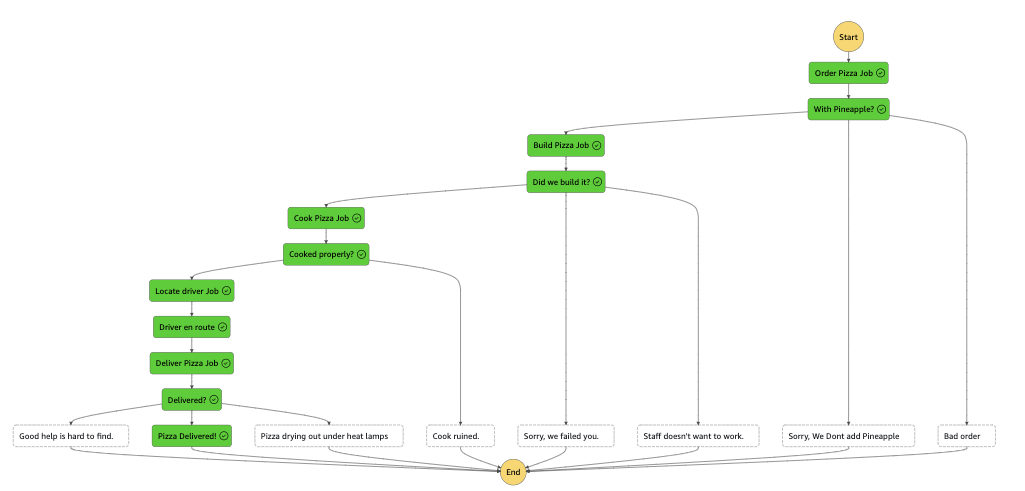
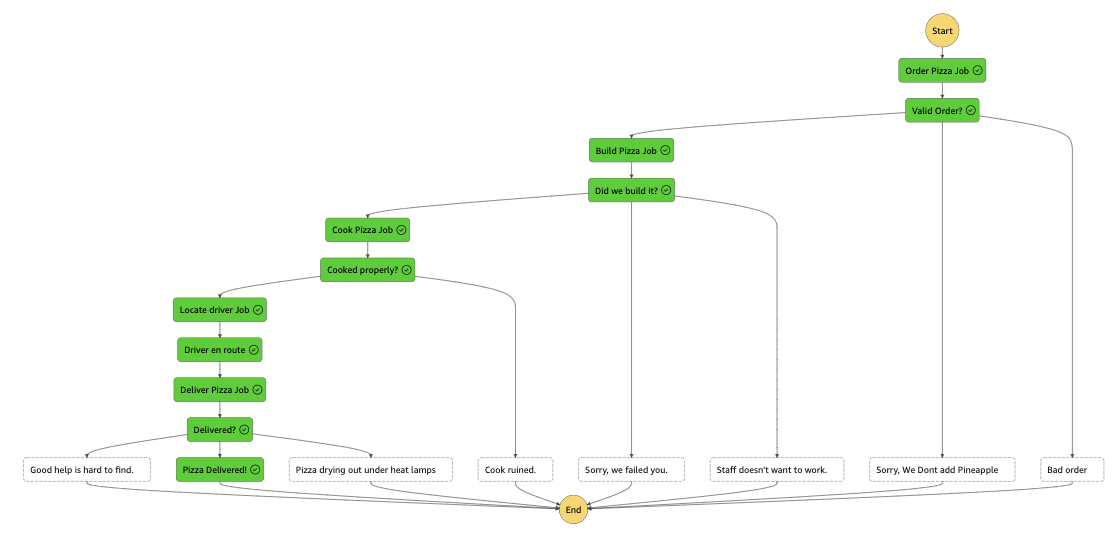
A little more docs

Changed region(s): [[0.0, 0.2749, 0.999, 1.0], [0.4371, 0.0305, 0.9366, 0.3971]]

diff --git a/lib/the-state-machine-stack.ts b/lib/the-state-machine-stack.ts
@@ -153,7 +153,7 @@ export class TheStateMachineStack extends cdk.Stack {
     //Express Step function definition
     const definition = sfn.Chain
     .start(orderPizza)
-    .next(new sfn.Choice(this, 'With Pineapple?')
+    .next(new sfn.Choice(this, 'Valid Order?')
         .when(sfn.Condition.booleanEquals('$.orderAnalysis.containsPineapple', true), pineappleDetected)
         .when(sfn.Condition.isPresent('$.orderAnalysis.errors[0]'), orderErrors)
         .otherwise(buildPizza)

diff --git a/README.md b/README.md
@@ -22,7 +22,7 @@ After deployment you should have an API Gateway HTTP API where on the base url y
   }
 }
 
-//to see a failure
+//to see an address failure
 {
   "order": {
     "flavour": "pepperoni",
@@ -32,7 +32,23 @@ After deployment you should have an API Gateway HTTP API where on the base url y
     "delivery": true
   }
 }
+
+//to see a flavour failure
+{
+  "order": {
+    "flavour": "pineapple",
+    "size": "large",
+    "toppings": ["bacon", "olives", "jalapenos"],
+    "address": "Nope",
+    "delivery": true
+  }
+}
 ```
+
+### Fail Diagram
+
+
+![Architecture](img/PizzaFail.png)
 
 If you pass in pineapple or hawaiian you should see the step function flow fail in the response payload
 
